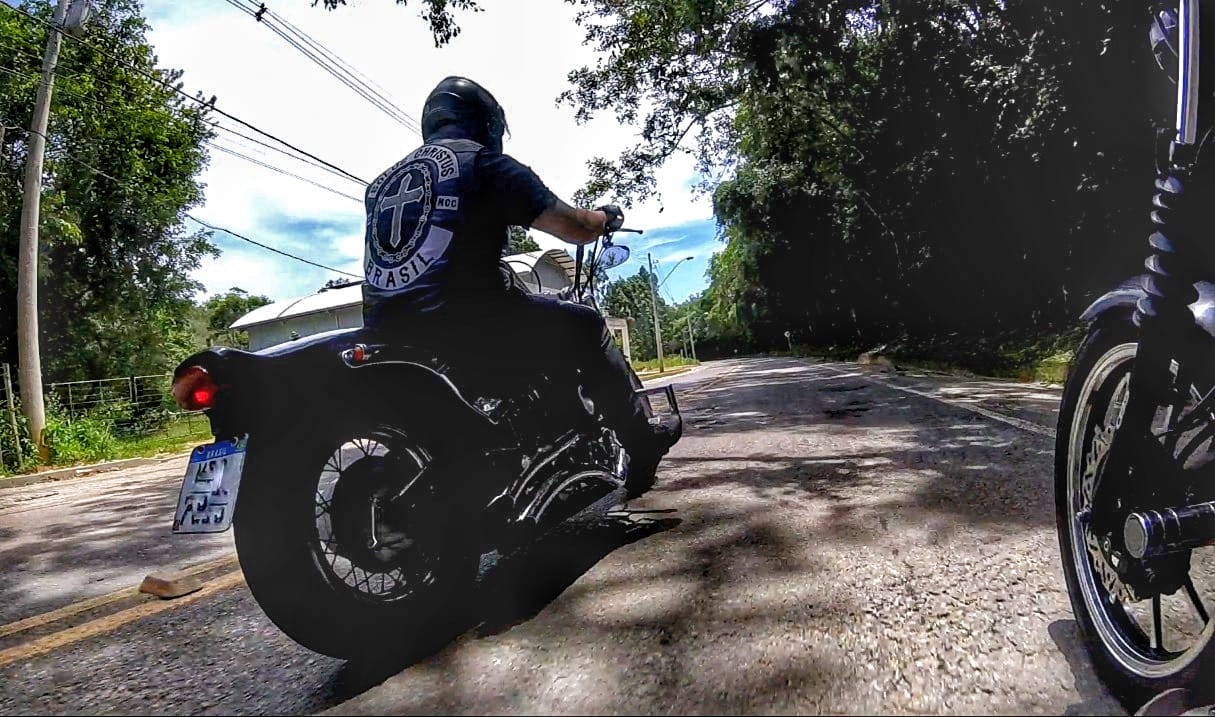
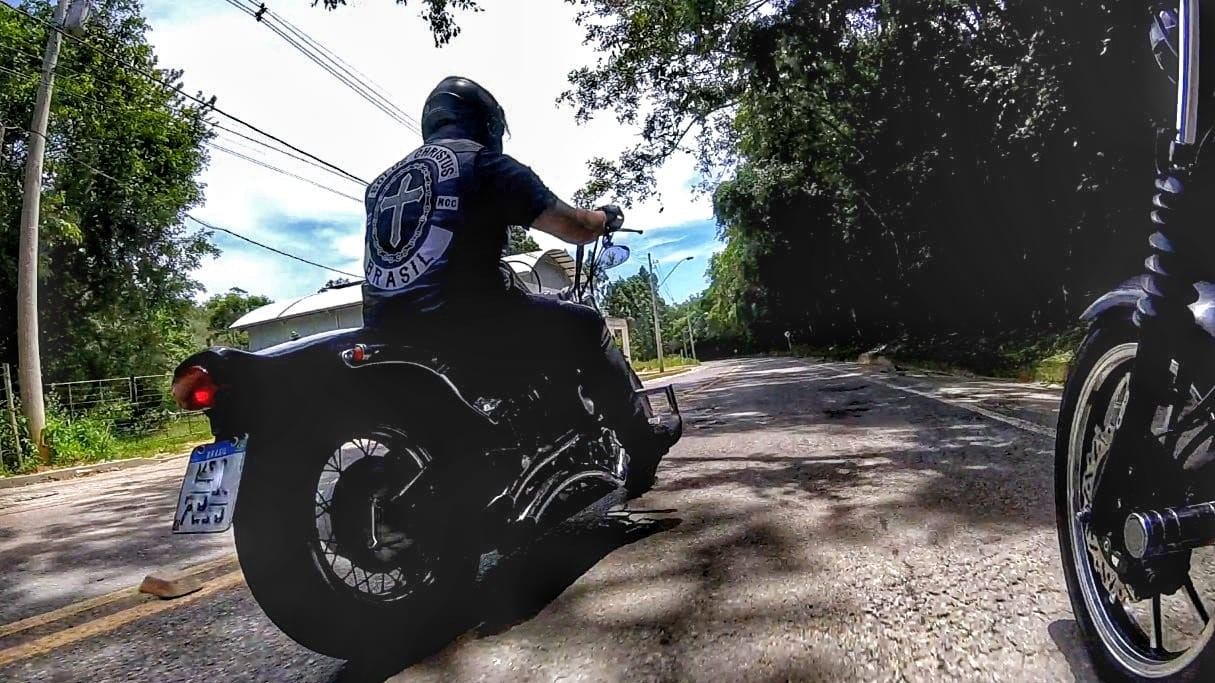
Adjust carousel and images jpg to webp

diff --git a/src/views/index-sections/SectionCarousel.js b/src/views/index-sections/SectionCarousel.js
@@ -34,47 +34,47 @@ import {
 
 const items = [
   {
-    src: require("assets/img/carousel/01.jpg"),
+    src: require("assets/img/carousel/01.webp"),
     altText: "Solus Christus",
     caption: "Solus Christus"
   },
   {
-    src: require("assets/img/carousel/02.jpg"),
+    src: require("assets/img/carousel/02.webp"),
     altText: "Solus Christus",
     caption: "Solus Christus"
   },
   {
-    src: require("assets/img/carousel/03.jpg"),
+    src: require("assets/img/carousel/03.webp"),
     altText: "Solus Christus",
     caption: "Solus Christus"
   },
   {
-    src: require("assets/img/carousel/04.jpeg"),
+    src: require("assets/img/carousel/04.webp"),
     altText: "Solus Christus",
     caption: "Solus Christus"
   },
   {
-    src: require("assets/img/carousel/05.jpeg"),
+    src: require("assets/img/carousel/05.webp"),
     altText: "Solus Christus",
     caption: "Solus Christus"
   },
   {
-    src: require("assets/img/carousel/06.jpeg"),
+    src: require("assets/img/carousel/06.webp"),
     altText: "Solus Christus",
     caption: "Solus Christus"
   },
   {
-    src: require("assets/img/carousel/07.jpeg"),
+    src: require("assets/img/carousel/07.webp"),
     altText: "Solus Christus",
     caption: "Solus Christus"
   },
   {
-    src: require("assets/img/carousel/08.jpeg"),
+    src: require("assets/img/carousel/08.webp"),
     altText: "Solus Christus",
     caption: "Solus Christus"
   },
   {
-    src: require("assets/img/carousel/09.jpeg"),
+    src: require("assets/img/carousel/09.webp"),
     altText: "Solus Christus",
     caption: "Solus Christus"
   }
